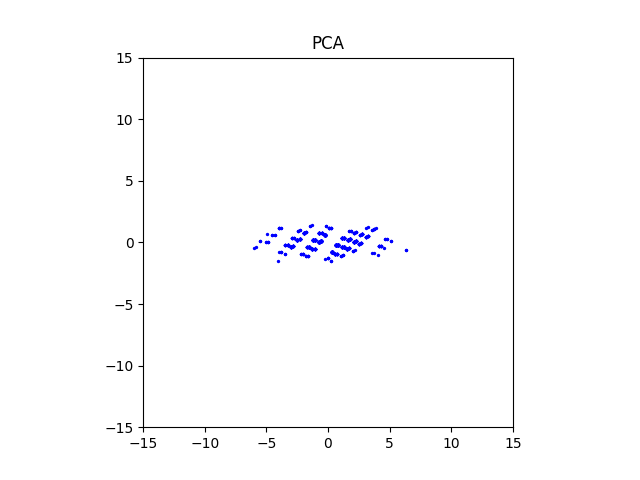
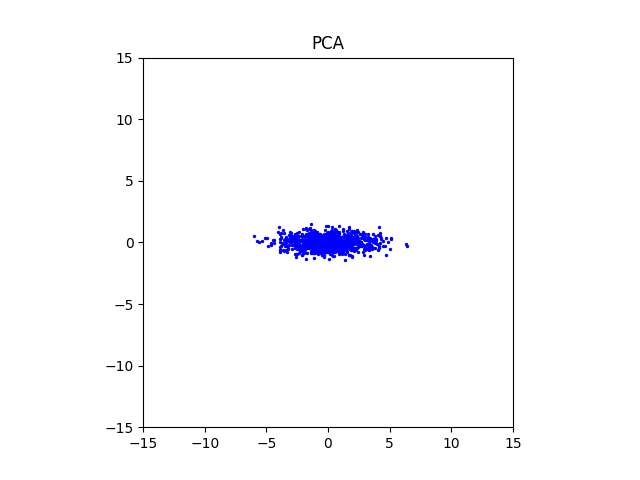
Corrected loadtxt error in PCA

Changed region(s): [[0.375, 0.4688, 0.6562, 0.5625]]

diff --git a/01/180050085_180050090_180070060_lab01/numpy/code/pca.py b/01/180050085_180050090_180070060_lab01/numpy/code/pca.py
@@ -9,7 +9,7 @@ if __name__ == '__main__':
 	args = parser.parse_args()
 
 	path = args.path
-	X = np.loadtxt(path, dtype = 'i', delimiter = ',')
+	X = np.loadtxt(path, dtype = np.float64, delimiter = ',')
 
 	n, d = X.shape
 	X_new = (X - np.mean(X, axis = 0))/np.std(X, axis = 0, ddof = 1)
